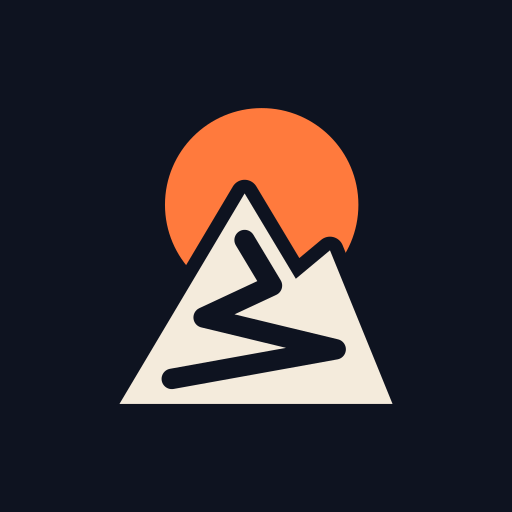
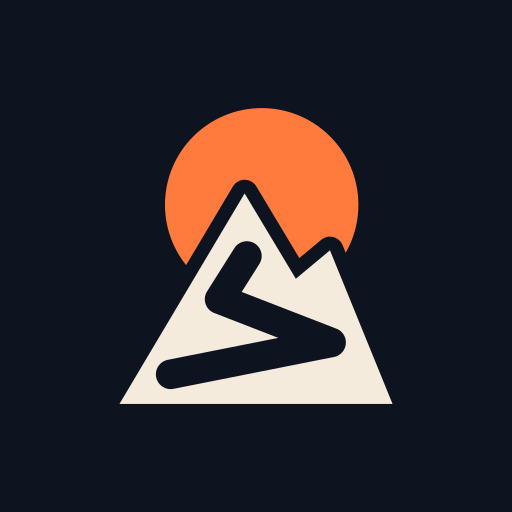
feat: redraw the mark's trail so it holds at small sizes
The sun, the mountain and the colors are unchanged. The master trail is now
three angular legs, M5.5 25.4 L19.6 22.6 L9.8 18.8 L12.2 15 at width 2.6, and
lives in src/lib/brand-mark.ts, which BrandMark and the share image read. The
tab tile gets a small tier: a one-turn trail, M9.5 25 L21.5 22.4 L14.6 17.6 at
width 3.6, and a 3.2 gap around the mountain.

Regenerated the icons (npm run icons) and og.png (npm run stills); the scene
stills are byte-identical. A unit test now checks the tab tile's small tier,
and another that the app-icon trail in render-icons.mjs matches the master.

Changed region(s): [[0.2812, 0.4375, 0.6875, 0.75]]

diff --git a/scripts/render-stills.ts b/scripts/render-stills.ts
@@ -36,6 +36,7 @@ import {
   type SceneCamera,
 } from '../src/scene/terrain';
 import { sceneFrame, skyOf, toHex, type Dot, type Frame, type RGB } from '../src/scene/frame';
+import { MARK_GAP_WIDTH, MARK_MOUNTAIN, MARK_SUN, MARK_TRAIL, MARK_TRAIL_WIDTH } from '../src/lib/brand-mark';
 
 const ROOT = join(dirname(fileURLToPath(import.meta.url)), '..');
 const OUT = join(ROOT, 'public', 'stills');
@@ -744,19 +745,20 @@ export function renderAllStills(): Record<string, string> {
 const WORDMARK =
   'M115 3q-33 0-56-10q-23-10-34-30q-12-19-12-49q0-43 26-66q27-23 76-23q28 0 49 9q22 8 34 24q12 16 12 39h-49q0-11-6-19q-5-7-16-12q-10-4-24-4q-17 0-28 6q-12 6-17 17q-6 11-6 25v8q0 14 5 25q6 11 17 17q12 6 28 6q16 0 26-4q11-4 17-11q6-8 6-19h46q0 22-11 38q-12 16-33 25q-21 8-50 8zm176 0q-12 0-22-2q-9-1-17-6q-7-4-12-11q-4-8-4-19q0-16 8-25q8-9 22-13q15-5 35-6q20-2 44-2v-5q0-7-3-11q-4-5-10-7q-7-2-17-2q-7 0-14 2q-7 1-11 3q-4 3-4 8v2h-45q0-1 0-2q0-1 0-2q0-12 8-21q9-9 26-14q17-5 42-5q23 0 39 5q16 4 25 14q9 9 9 25v54q0 4 2 6q2 3 6 3h12v26q-4 2-11 3q-7 2-15 2q-12 0-19-2q-7-3-11-7q-4-4-5-9h-2q-7 5-15 9q-8 5-19 7q-10 2-22 2zm13-29q6 0 13-1q7-2 13-5q7-3 11-7q4-4 4-10v-8q-22 0-36 2q-14 2-21 6q-7 4-7 11q0 5 3 7q4 3 9 4q5 1 11 1zm127 26v-132h37l3 21h2q6-8 14-14q8-5 18-7q9-3 19-3q17 0 29 6q11 6 17 18h2q7-8 15-14q8-5 17-7q10-3 19-3q18 0 29 6q11 6 17 17q7 12 7 30v82h-45v-75q0-7-2-12q-2-4-5-8q-3-3-7-4q-5-2-11-2q-8 0-15 4q-7 4-11 10q-4 7-4 16v71h-45v-75q0-7-2-12q-1-4-4-8q-3-3-8-4q-4-2-10-2q-9 0-16 4q-7 4-11 10q-4 7-4 16v71zm281-150v-31h45v31zm0 150v-132h45v132zm82 0v-132h36l3 21h2q7-8 15-14q8-5 18-7q10-3 20-3q18 0 30 6q12 6 18 18q6 12 6 29v82h-45v-75q0-7-1-11q-2-5-6-9q-3-3-8-4q-5-2-11-2q-9 0-17 4q-7 4-11 10q-5 7-5 16v71zm261 3q-25 0-44-8q-18-7-28-23q-10-15-10-38q0-23 10-38q10-16 28-23q19-8 44-8q25 0 44 8q18 7 28 23q10 15 10 38q0 23-10 38q-10 16-28 23q-19 8-44 8zm0-31q12 0 20-4q9-4 12-12q4-8 4-19v-6q0-11-4-19q-3-7-12-12q-8-4-20-4q-12 0-20 4q-8 5-12 12q-4 8-4 19v6q0 11 4 19q4 8 12 12q8 4 20 4zm286 31q-34 0-57-10q-22-10-34-30q-11-19-11-49q0-43 26-66q26-23 76-23q28 0 49 9q21 8 33 24q12 16 12 39h-48q0-11-6-19q-6-7-16-12q-10-4-25-4q-17 0-28 6q-11 6-17 17q-6 11-6 25v8q0 14 6 25q6 11 17 17q11 6 28 6q15 0 26-4q11-4 16-11q6-8 6-19h47q0 22-12 38q-11 16-32 25q-21 8-50 8zm204 0q-25 0-43-8q-19-7-29-23q-10-15-10-38q0-23 10-38q10-16 29-23q18-8 43-8q25 0 44 8q18 7 28 23q11 15 11 38q0 23-11 38q-10 16-28 23q-19 8-44 8zm0-31q13 0 21-4q8-4 12-12q3-8 3-19v-6q0-11-3-19q-4-7-12-12q-8-4-21-4q-12 0-20 4q-8 5-12 12q-4 8-4 19v6q0 11 4 19q4 8 12 12q8 4 20 4zm173 31q-19 0-34-7q-15-8-23-23q-8-15-8-39q0-24 8-39q9-15 23-22q14-8 33-8q9 0 17 2q9 2 16 6q7 4 12 10h2v-64h45v181h-37l-3-20h-2q-9 13-22 18q-12 5-27 5zm13-34q11 0 19-4q7-4 11-12q3-7 3-17v-3q0-8-2-14q-2-6-6-11q-4-4-10-7q-6-2-15-2q-11 0-18 4q-7 4-11 11q-3 8-3 18v5q0 10 3 17q4 8 11 11q7 4 18 4zm193 34q-26 0-45-7q-18-8-29-23q-10-15-10-39q0-23 10-38q10-16 29-23q18-8 43-8q26 0 44 7q18 8 28 23q9 15 9 38v10h-116q0 11 4 17q5 7 13 11q8 3 21 3q6 0 12-1q6-2 10-4q5-3 8-7q2-4 3-8h45q0 11-6 20q-5 10-16 16q-11 7-25 10q-15 3-32 3zm-37-84h69q0-6-2-10q-2-5-7-8q-4-3-10-5q-6-2-13-2q-11 0-19 3q-8 3-13 9q-4 6-5 13z';
 
-// The mark, as src/components/BrandMark.tsx draws it on a 26 x 30 canvas: sun, mountain, the camino cut into
-// the peak. Masks make the gap and the trail real cut-outs, so it sits on the scene, not on a flat tile.
+// The mark's master drawing (src/lib/brand-mark.ts, as src/components/BrandMark.tsx draws it) on a 26 x 30
+// canvas: sun, mountain, the camino cut into the peak. Masks make the gap and the trail real cut-outs, so it
+// sits on the scene, not on a flat tile.
 const MARK = {
-  sun: 'cx="13.5" cy="10.5" r="8.5"',
-  mountain: 'M1 28 L12 9.5 L16.5 17 L19.5 14.5 L25 28 Z',
-  trail: 'M5.6 25.8 L20 23.2 L8.4 20.4 L14.4 17.6 L12 13.6',
+  sun: `cx="${MARK_SUN.cx}" cy="${MARK_SUN.cy}" r="${MARK_SUN.r}"`,
+  mountain: MARK_MOUNTAIN,
+  trail: MARK_TRAIL,
 };
 function markSvg(x: number, y: number, scale: number): string {
   const area = 'maskUnits="userSpaceOnUse" x="0" y="0" width="26" height="30"><rect width="26" height="30" fill="#fff"/>';
   return (
     `<g transform="translate(${num(x)} ${num(y)}) scale(${+scale.toFixed(3)})">` +
-    `<mask id="mark-sun" ${area}<path d="${MARK.mountain}" fill="#000" stroke="#000" stroke-width="2.4" stroke-linejoin="round"/></mask>` +
-    `<mask id="mark-peak" ${area}<path d="${MARK.trail}" fill="none" stroke="#000" stroke-width="1.8" stroke-linecap="round" stroke-linejoin="round"/></mask>` +
+    `<mask id="mark-sun" ${area}<path d="${MARK.mountain}" fill="#000" stroke="#000" stroke-width="${MARK_GAP_WIDTH}" stroke-linejoin="round"/></mask>` +
+    `<mask id="mark-peak" ${area}<path d="${MARK.trail}" fill="none" stroke="#000" stroke-width="${MARK_TRAIL_WIDTH}" stroke-linecap="round" stroke-linejoin="round"/></mask>` +
     `<circle ${MARK.sun} fill="${PALETTE.ember}" mask="url(#mark-sun)"/><path d="${MARK.mountain}" fill="${PALETTE.cream}" mask="url(#mark-peak)"/></g>`
   );
 }

diff --git a/scripts/render-stills.test.ts b/scripts/render-stills.test.ts
@@ -3,6 +3,7 @@ import { join } from 'node:path';
 import { beforeAll, describe, expect, it } from 'vitest';
 import sharp from 'sharp';
 import { SADDLE } from '../src/scene/terrain';
+import { MARK_TRAIL, MARK_TRAIL_WIDTH } from '../src/lib/brand-mark';
 import { BAND_LAYOUTS, BAND_STILLS, OG_SIZE, SADDLE_LABEL_METRES, bandStillName, renderAllStills, writeStills } from './render-stills';
 
 const BAND_NAMES = BAND_STILLS.flatMap(({ stage, time }) => BAND_LAYOUTS.map((layout) => bandStillName(stage, time, layout)));
@@ -132,11 +133,35 @@ describe('icons', () => {
     expect(sizes).toEqual([16, 32, 48]);
   });
 
-  it('the tab icon is the square tile: sun and mountain, no trail', () => {
+  it('the tab icon is the small tier: sun, mountain with a 3.2 gap, and a one-turn trail cut 3.6 wide', () => {
     const svg = readFileSync(join(ROOT, 'src', 'app', 'icon.svg'), 'utf8');
     expect(svg).toContain('viewBox="0 0 32 32"');
+    expect(svg).toContain('<rect width="32" height="32" rx="7" fill="#0E1320"/>');
     expect(svg).toContain('<circle cx="16.5" cy="10.5" r="8.5" fill="#FF7A3D"/>');
-    expect(svg.match(/<path /g)).toHaveLength(1);
+    expect(svg).toContain(
+      '<path d="M4 28 L15 9.5 L19.5 17 L22.5 14.5 L28 28 Z" fill="#F4EBDC" stroke="#0E1320" stroke-width="3.2" stroke-linejoin="round" paint-order="stroke"/>',
+    );
+    expect(svg).toContain(
+      '<path d="M9.5 25 L21.5 22.4 L14.6 17.6" fill="none" stroke="#0E1320" stroke-width="3.6" stroke-linecap="round" stroke-linejoin="round"/>',
+    );
+    expect(svg.match(/<path /g)).toHaveLength(2);
+  });
+
+  it('the app icons draw the same master trail as BrandMark and the share image', () => {
+    const script = readFileSync(join(ROOT, 'scripts', 'render-icons.mjs'), 'utf8');
+    expect(script.match(/^const TRAIL = '([^']+)';$/m)?.[1]).toBe(MARK_TRAIL);
+    expect(Number(script.match(/^const TRAIL_WIDTH = ([\d.]+);$/m)?.[1])).toBe(MARK_TRAIL_WIDTH);
+    // the app-icon tile paints that trail, not a literal of its own
+    expect(script).toContain('<path d="${TRAIL}" stroke="${MIDNIGHT}" stroke-width="${TRAIL_WIDTH}"');
+    // the component and the share image read the shared drawing rather than keeping copies
+    const component = readFileSync(join(ROOT, 'src', 'components', 'BrandMark.tsx'), 'utf8');
+    expect(component).toContain('from "@/lib/brand-mark"');
+    expect(component).not.toMatch(/"M\d/);
+    const stills = readFileSync(join(ROOT, 'scripts', 'render-stills.ts'), 'utf8');
+    expect(stills).toContain('trail: MARK_TRAIL,');
+    expect(stills).toContain('stroke-width="${MARK_TRAIL_WIDTH}"');
+    expect(MARK_TRAIL).toBe('M5.5 25.4 L19.6 22.6 L9.8 18.8 L12.2 15');
+    expect(MARK_TRAIL_WIDTH).toBe(2.6);
   });
 
   it('the Apple and manifest icons are opaque squares of the stated sizes', async () => {

diff --git a/src/components/BrandMark.tsx b/src/components/BrandMark.tsx
@@ -1,9 +1,17 @@
 import { useId } from "react";
+import {
+  MARK_GAP_WIDTH as GAP_WIDTH,
+  MARK_MOUNTAIN as MOUNTAIN,
+  MARK_SUN as SUN,
+  MARK_TRAIL as TRAIL,
+  MARK_TRAIL_WIDTH as TRAIL_WIDTH,
+} from "@/lib/brand-mark";
 
 /*
  * The Camino Code mark: first light over the saddle, with the camino cut into the peak.
  * It carries the original logo's picture (a warm sun behind a pale mountain) in the
- * site's three colours. One 26 x 30 drawing, two paintings:
+ * site's three colours. One 26 x 30 drawing (the master in src/lib/brand-mark.ts: the
+ * trail is three angular legs, drawn wide enough to hold at small sizes), two paintings:
  *
  * - tone "dark" (default): for the Midnight header and any dark panel. The gap around
  *   the mountain and the trail are painted in Midnight.
@@ -13,10 +21,6 @@ import { useId } from "react";
  * Size it from CSS (the header reserves 26 x 30 px). It is decorative next to the
  * wordmark, so it is hidden from assistive technology.
  */
-
-const SUN = { cx: 13.5, cy: 10.5, r: 8.5 };
-const MOUNTAIN = "M1 28 L12 9.5 L16.5 17 L19.5 14.5 L25 28 Z";
-const TRAIL = "M5.6 25.8 L20 23.2 L8.4 20.4 L14.4 17.6 L12 13.6";
 
 export function BrandMark({
   tone = "dark",
@@ -35,7 +39,7 @@ export function BrandMark({
         <defs>
           <mask id={sunMask} maskUnits="userSpaceOnUse" x="0" y="0" width="26" height="30">
             <rect width="26" height="30" fill="#fff" />
-            <path d={MOUNTAIN} fill="#000" stroke="#000" strokeWidth="2.4" strokeLinejoin="round" />
+            <path d={MOUNTAIN} fill="#000" stroke="#000" strokeWidth={GAP_WIDTH} strokeLinejoin="round" />
           </mask>
           <mask id={peakMask} maskUnits="userSpaceOnUse" x="0" y="0" width="26" height="30">
             <rect width="26" height="30" fill="#fff" />
@@ -43,7 +47,7 @@ export function BrandMark({
               d={TRAIL}
               fill="none"
               stroke="#000"
-              strokeWidth="1.8"
+              strokeWidth={TRAIL_WIDTH}
               strokeLinecap="round"
               strokeLinejoin="round"
             />
@@ -63,14 +67,14 @@ export function BrandMark({
         d={MOUNTAIN}
         fill="var(--cream)"
         stroke="var(--midnight)"
-        strokeWidth="2.4"
+        strokeWidth={GAP_WIDTH}
         strokeLinejoin="round"
         paintOrder="stroke"
       />
       <path
         d={TRAIL}
         stroke="var(--midnight)"
-        strokeWidth="1.8"
+        strokeWidth={TRAIL_WIDTH}
         strokeLinecap="round"
         strokeLinejoin="round"
       />

diff --git a/src/lib/brand-mark.ts b/src/lib/brand-mark.ts
@@ -1,0 +1,18 @@
+/*
+ * The Camino Code mark's master drawing, in its own 26 x 30 units: a sun disc behind a mountain, with the
+ * camino cut into the peak. The master is used wherever the mark is drawn 28 px tall or more (the header and
+ * footer marks, the Apple touch icon, the web-manifest icons, the share image). Below that, the browser tab
+ * tile in scripts/render-icons.mjs uses a small tier: the same sun and mountain with a one-turn trail.
+ *
+ * src/components/BrandMark.tsx and the share image in scripts/render-stills.ts read these values.
+ * scripts/render-icons.mjs is plain Node and keeps its own copy; scripts/render-stills.test.ts checks that
+ * its app-icon trail matches this one.
+ */
+
+export const MARK_SUN = { cx: 13.5, cy: 10.5, r: 8.5 } as const;
+export const MARK_MOUNTAIN = "M1 28 L12 9.5 L16.5 17 L19.5 14.5 L25 28 Z";
+/** the outline, in the background colour, that separates the mountain from the sun */
+export const MARK_GAP_WIDTH = 2.4;
+/** three angular legs climbing the face, drawn with round caps and round joins */
+export const MARK_TRAIL = "M5.5 25.4 L19.6 22.6 L9.8 18.8 L12.2 15";
+export const MARK_TRAIL_WIDTH = 2.6;
